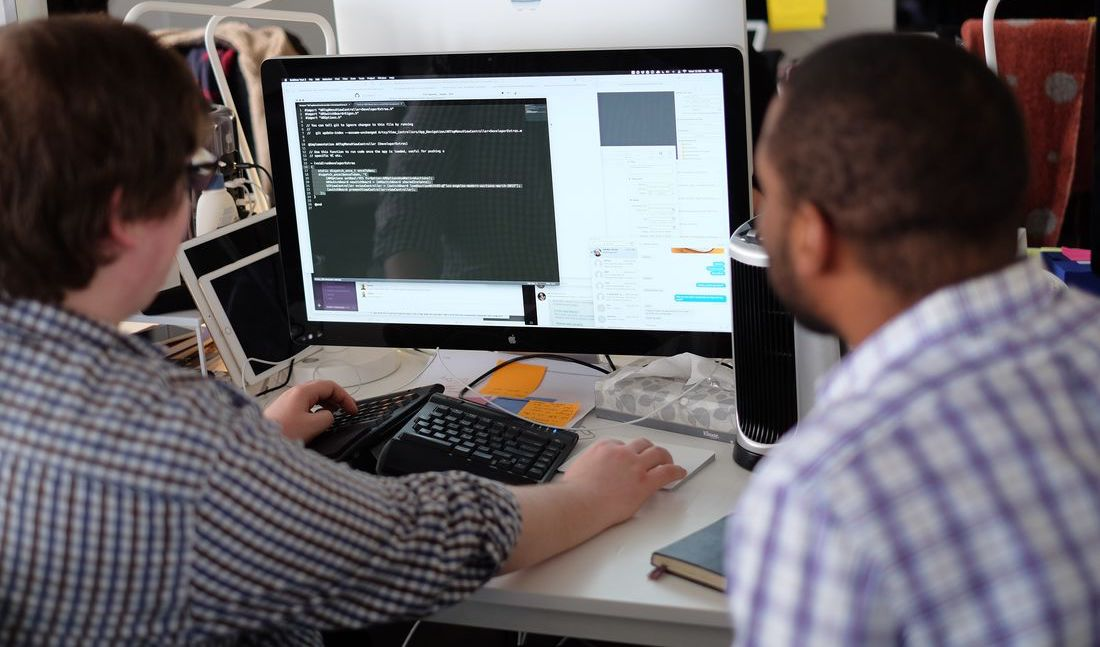
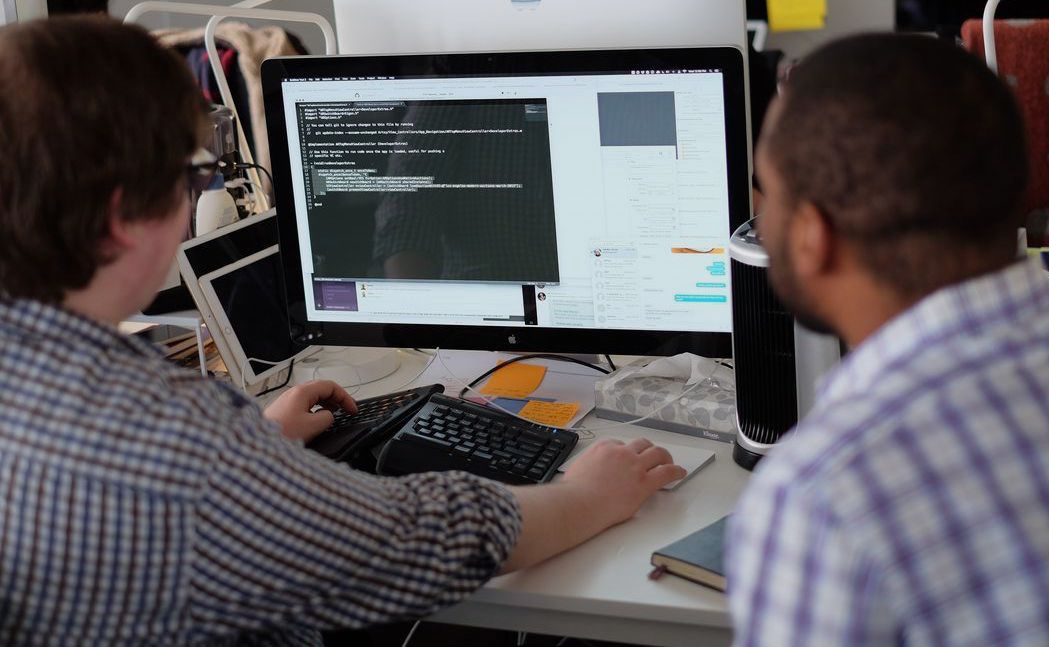
Cleanup.

diff --git a/blog/2019-12-01-5-more-years/Timeline2.tsx b/blog/2019-12-01-5-more-years/Timeline2.tsx
@@ -10,11 +10,11 @@ import Theme from '../../config/Theme'
 import Wide from '../../src/components/Wide'
 import { camelCase } from 'lodash'
 
+import purchase from './purchaseteam.jpg'
 import mxteam from './mxteam.png'
 import greguniverse from './greguniverse.jpg'
 import ikea from './ikea.jpg'
 import eclipse from './eclipse.jpg'
-import artworkpage from './artworkpage.png'
 import pianocat from './pianocat.png'
 import moya from './moya.png'
 import comingout from './comingout.png'
@@ -249,9 +249,9 @@ export class Timeline2 extends React.Component {
               </p>
               <p>
                 Attaching your personal sense of stability to your employer is
-                never a good idea – businesses are inherently unstable and
-                mooring your sense of self to them is a mistake. And, yet, I
-                seem to make this mistake every time.
+                never a great idea – businesses are inherently unstable, so
+                mooring your sense of self to them can lead to difficult
+                emotions. I've always struggled with this, and I still do.
               </p>
             </Entry>
 
@@ -322,13 +322,13 @@ export class Timeline2 extends React.Component {
                 the airport. They told me something I'll never forget: they told
                 me that my talk had made them think about the{' '}
                 <a href="https://en.wikipedia.org/wiki/European_migrant_crisis">
-                  migration crisis
+                  migration crisis{' '}
                 </a>
                 with a new perspective.
               </p>
               <p>
-                As time went on, I gave fewer and fewer conference talks. But
-                each one became more and more important.
+                As time went on, I gave fewer and fewer conference talks.
+                However, each one became more and more important.
               </p>
             </Entry>
 
@@ -503,8 +503,8 @@ export class Timeline2 extends React.Component {
               <p>
                 So far, my wife and I had been living in the United States on a
                 TN-1 visa ("the NAFTA visa"). It had some restrictions that we
-                were initial okay with, but grew tired of as we continued living
-                in the states. And border crossings were a consistently
+                were initially okay with, but grew tired of as we continued
+                living in the states. And border crossings were a consistently
                 stressful, as it's kind of a weird visa. Especially entering
                 from Europe, airlines get really fussy.
               </p>
@@ -811,12 +811,12 @@ export class Timeline2 extends React.Component {
                 lot.{' '}
               </p>
               <p>
-                I still remember when a serious, immediate problem with the
-                federation behaviour was uncovered and the creator of Mastodon
-                asked me on Discord for help (I was the only one around). "I'm
-                just an iOS developer", I said. "Whatever, you know code", he
-                responded. And I was like "huh, <em>yeah</em>." And we figured
-                out the problem together.
+                At one point, a vulnerability with Mastodon's federation
+                behaviour was uncovered. I was hanging out on the Discord server
+                when the creator of Mastodon asked me for help (I was the only
+                other developer around). I hesitated: "I'm just an iOS
+                developer." "Whatever, you know code." And I was like "huh,{' '}
+                <em>yeah</em>." And we figured out the problem together.
               </p>
             </Entry>
 
@@ -877,7 +877,7 @@ export class Timeline2 extends React.Component {
               <p>
                 I was used to performing music from back in high school, when I
                 played piano and saxophone. But this was different, mainly
-                because <em>I was signing</em> and I really hated my voice. If
+                because <em>I was singing</em> and I really hated my voice. If
                 you{' '}
                 <a href="https://www.youtube.com/watch?v=582iYsdMHjA&list=PLBygl72DbBTHb0kIkmmzOx9gUyNvEwaUO&index=2&t=0s">
                   watch the recordings
@@ -1389,10 +1389,15 @@ export class Timeline2 extends React.Component {
               <p>
                 For a while, that was fine. But as I wanted to grow my influence
                 at Artsy, I realized that I was robbing myself and my colleagues
-                fromt he chance to <em>see</em> me. There's a huge difference on
-                a conference call on audio-only and one with visuals. So I
-                bought a webcam and have used it basically every day I work from
-                home.
+                from the chance to actually <em>see</em> me. There's a huge
+                difference on a conference call on audio-only and one with
+                visuals. I wanted to connect to my colleagues, even when I was
+                working from home, so I bought a webcam.
+              </p>
+              <p>
+                I realized that seeing <em>myself</em> on the screen also
+                changed how I think about remoting meetings, and remote work in
+                general.
               </p>
             </Entry>
 
@@ -1489,15 +1494,15 @@ export class Timeline2 extends React.Component {
               </p>
               <p>
                 I've succeeded only because I haven't worked to build a
-                community, but have built a <em>team</em> to help me. I noticed
+                community, but have built a <em>team</em> to build it. I noticed
                 when people were making positive contributions to the instance,
-                and invited them to help me moderate the instance. In 2019, I
-                made the big step of asking one of the mods to become another
-                admin. This would give them full administrative access to the
-                instance and its database. It's a huge level of trust, and it
-                was a lot of work to build it up, but it's been so worth it. The
-                team has created the exact kind of community I want to be a part
-                of. To my moderator team: thank you.
+                and invited them to help me moderate it. In 2019, I made the big
+                step of asking one of the mods to become co-admin. This would
+                give them full administrative access to the instance and its
+                database. It's a huge level of trust, and it was a lot of work
+                to build it up, but it's been so worth it. The team has created
+                the exact kind of community I want to be a part of. To my
+                moderator team: thank you.
               </p>
             </Entry>
 
@@ -1550,17 +1555,17 @@ export class Timeline2 extends React.Component {
                 can't exist anymore.
               </p>
               <p>
-                But I'm also excited for the Artsy that is coming into
-                existence. It's easy to only see the downsides of change, but
-                2019 has been a crash course in seeing the opportunities, too.
-                Orta's not around anymore to own Artsy's iOS stack, but that's
-                given me space to step out of his shadow a bit. dB's not around
-                to maintain our engineering culture, but that's given me the
-                space to build the culture up even further.
+                I am also excited for the Artsy that is coming into existence.
+                It's easy to only see the downsides of change, but 2019 has been
+                a crash course in seeing the opportunities, too. Orta isn't
+                around anymore to manage Artsy's iOS stack, but that's given me
+                space to step out of his shadow a bit and own it myself. dB
+                isn't around anymore to maintain our engineering culture, but
+                that's given me a chance to grow the culture myself.
               </p>
             </Entry>
 
-            <Entry title="Purchase Team Redux" img={artworkpage}>
+            <Entry title="Purchase Team Revisited" img={purchase}>
               <p>
                 Once the City Guides project was completed, I was asked which
                 team I'd like to join next. The Purchase Team was rebuilding the
@@ -1568,6 +1573,13 @@ export class Timeline2 extends React.Component {
                 to help out as a multiplier. It would mean joining another
                 in-progress project, so it was a good learning experience for
                 me.
+              </p>
+              <p>
+                It was fun, to work with the Purchase team for a while, leave
+                briefly, and then come back. Both the team and I had grown a
+                bit, changed a bit. The team felt different, but familiar. I
+                gained a deep appreciation for cultural continuity that Sarah,
+                the Purchase Tech Lead, had established.
               </p>
             </Entry>
 
@@ -1662,9 +1674,9 @@ export class Timeline2 extends React.Component {
                 <a href="https://thenib.com/i-came-out-late-and-that-s-okay">
                   Coming out late in life
                 </a>{' '}
-                (the image credits for this comic) isn't a common coming-out
-                story, and it involves navigating a lot of emotions. But I'm not
-                alone, and I'm excited to be my whole self.
+                isn't a common story you hear about, and it involves navigating
+                a lot of unfamiliar emotions. I'm having to figure things out,
+                but I'm not alone. And at last, I get to be my whole self.
               </p>
               <p>
                 Image credit:{' '}
@@ -1749,17 +1761,18 @@ export class Timeline2 extends React.Component {
                 ). It was time to dedicate a team to making the app awesome.
               </p>
               <p>
-                We formed Artsy's Mobile Experience team in October. We've got
-                limited resources (don't all startups?) but have big goals and
-                are empowered by Artsy leadership to drive the product forward.
+                We formed Artsy's Mobile Experience team in October. We started
+                with limited resources, but we're planning to grow and we have
+                big goals. Artsy's leadership has empowered us to drive our iOS
+                products forward, and I'm pumped to be leading this team.
               </p>
               <p>
                 I was really excited to get to create a new team, become a Tech
-                Lead again, and return to working on iOS software every day.
-                I've gained a really wide perspective on software development,
-                and it's time to zoom back in on a technical domain that I am so
+                Lead again, and return to working on iOS software every day. I
+                had gained a really wide perspective on software development,
+                and it was time to zoom back in on a technical domain that I am
                 intimately familiar with. I'm still new to being a Tech Lead,
-                but by all accounts, I am <em>killing</em> it. We have already
+                but by all accounts, I am <em>crushing</em> it. We have already
                 accomplished so much as a team. The future of iOS at Artsy is
                 very bright.
               </p>
